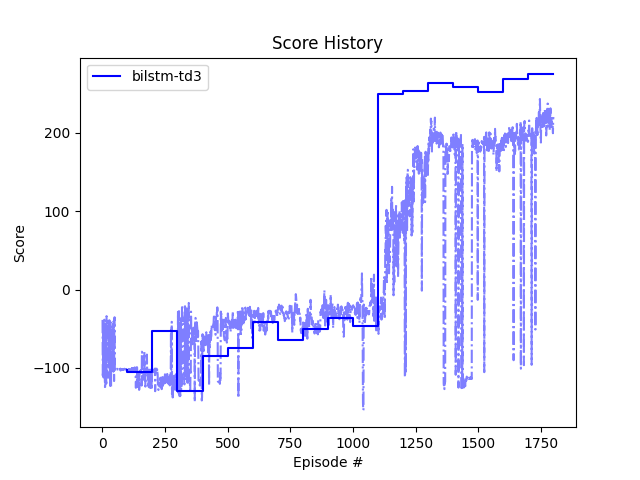
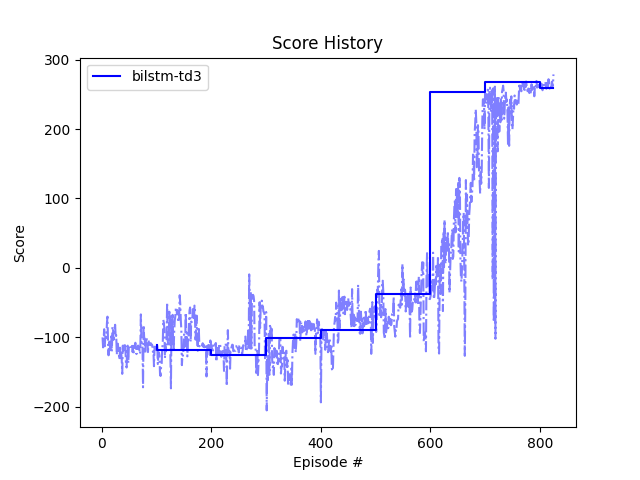
arch changes and hyperparameter change

diff --git a/main_script.py b/main_script.py
@@ -18,10 +18,10 @@ parser.add_argument("-e", "--env", type=str, choices=['classic', 'hardcore'],
 parser.add_argument("-m", "--model_type", type=str, choices=['ff','lstm','bilstm','trsf'],
                     default='ff', help="model type")
 parser.add_argument("-r", "--rl_type", type=str, choices=['ddpg', 'td3'], default='ddpg', help='RL method')
-parser.add_argument("-l", "--lr", type=float, default=5e-4, help='Learning Rate')
+parser.add_argument("-l", "--lr", type=float, default=3e-4, help='Learning Rate')
 parser.add_argument("-w", "--wd", type=float, default=1e-6, help='Weight Decay')
 parser.add_argument("-c", "--ckpt", type=str, default='seed', help='checkpoint to start with')
-parser.add_argument("-x", "--explore_episode", type=int, default=25, help='number of exploration steps')
+parser.add_argument("-x", "--explore_episode", type=int, default=30, help='number of exploration steps')
 
 args = parser.parse_args()
 
@@ -44,7 +44,7 @@ elif args.env == 'hardcore':
     #env._max_episode_steps = 1800
     
 if args.model_type in ['lstm', 'bilstm','trsf']:
-    env = BoxToHistoryBox(env, h=16)
+    env = BoxToHistoryBox(env, h=12)
 
 if args.rl_type=='ddpg':
     agent = DDPGAgent(Actor, Critic, state_size = env.observation_space.shape[-1], action_size=env.action_space.shape[-1], lr=args.lr, weight_decay=args.wd)

diff --git a/td3_agent.py b/td3_agent.py
@@ -10,7 +10,7 @@ from itertools import chain
 class TD3Agent():
     rl_type = 'td3'
     def __init__(self, Actor, Critic, clip_low, clip_high, state_size=24, action_size=4, update_freq=int(3),
-            lr=5e-4, weight_decay=1e-6, gamma=0.99, tau=0.005, batch_size=128, buffer_size=int(5e5)):
+            lr=3e-4, weight_decay=1e-6, gamma=0.99, tau=0.005, batch_size=128, buffer_size=int(5e5)):
         
         self.state_size = state_size
         self.action_size = action_size
@@ -44,7 +44,7 @@ class TD3Agent():
         self.critic_2_optim = optim.AdamW(self.train_critic_2.parameters(), lr=lr, weight_decay=weight_decay)
         print(f'Number of paramters of Single Critic Net: {sum(p.numel() for p in self.train_critic_2.parameters())}')
 
-        self.noise_generator = OrnsteinUhlenbeckNoise(mu=np.zeros(action_size), theta=3.0, sigma=0.3, dt=0.02)
+        self.noise_generator = OrnsteinUhlenbeckNoise(mu=np.zeros(action_size), theta=3.0, sigma=0.4, dt=0.02)
         #self.noise_generator = DecayingGaussianNoise(mu=np.zeros(action_size), end_sigma=0.10, start_sigma=0.70, decay_step=500000) 
         #self.noise_generator = GaussianNoise(mu=np.zeros(action_size), sigma=0.12) #sigma=0.12
         self.target_noise = GaussianNoise(mu=np.zeros(action_size), sigma=0.2, clip=0.5)

diff --git a/archs/trsf_models.py b/archs/trsf_models.py
@@ -63,7 +63,7 @@ class Critic(nn.Module):
         self.action_dim = action_dim
         
         self.state_encoder = StableTransformerEncoder(d_in=self.state_dim,
-            d_model=128, nhead=4, dim_feedforward=256, dropout=0.0)
+            d_model=128, nhead=8, dim_feedforward=256, dropout=0.0)
         self.action_encoder = nn.Sequential(nn.Linear(self.action_dim, 128), nn.GELU()) # 
         nn.init.xavier_uniform_(self.action_encoder[0].weight, gain=nn.init.calculate_gain('relu')) # 
 
@@ -107,7 +107,7 @@ class Actor(nn.Module):
         self.action_dim = action_dim
         
         self.state_encoder = StableTransformerEncoder(d_in=self.state_dim,
-            d_model=128, nhead=4, dim_feedforward=256, dropout=0.0)
+            d_model=128, nhead=8, dim_feedforward=256, dropout=0.0)
 
         self.fc = nn.Linear(128,action_dim)
         nn.init.uniform_(self.fc.weight, -0.003,+0.003)

diff --git a/fcn_train_test.py b/fcn_train_test.py
@@ -5,7 +5,7 @@ import os
 import matplotlib.pyplot as plt
 from collections import deque
 
-def train(env, agent, n_episodes=3000, model_type='unk', env_type='unk', score_limit=250.0, explore_episode=25, test_f=100, max_t_step=2000):
+def train(env, agent, n_episodes=3000, model_type='unk', env_type='unk', score_limit=280.0, explore_episode=30, test_f=100, max_t_step=2000):
     scores_deque = deque(maxlen=100)
     scores = []
     test_scores = []
